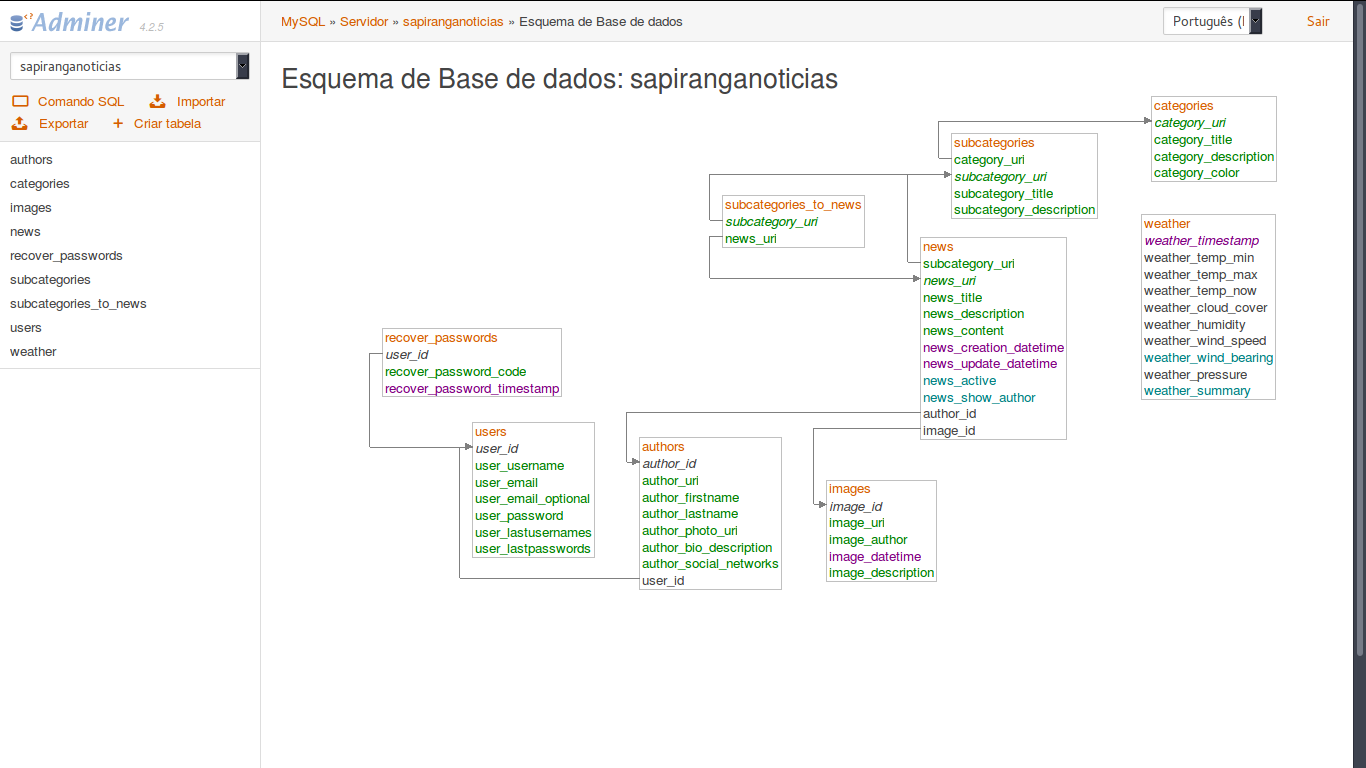
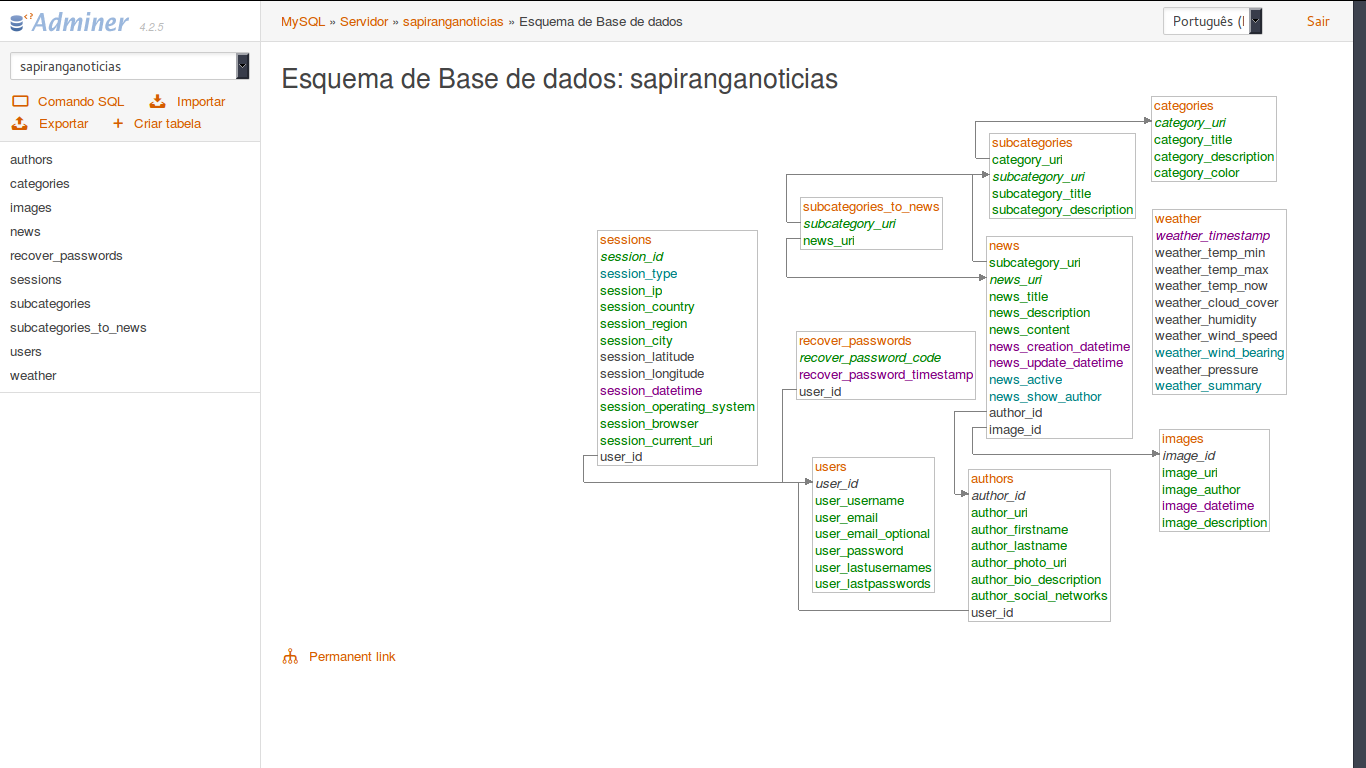
Adicionada a tabela de Monitoramento de Sessões

diff --git a/application/models/Installer_model.php b/application/models/Installer_model.php
@@ -67,6 +67,13 @@ class Installer_model extends CI_Model {
 	protected $table_weather = 'weather';
 
 	/**
+	 * @see Installer_model::table_sessions()
+	 * @var string $table_weather Nome da Tabela de Sessões
+	 */
+	protected $table_sessions = 'sessions';
+
+
+	/**
 	 * Installer_model constructor
 	 */
 	public function __construct()
@@ -92,6 +99,7 @@ class Installer_model extends CI_Model {
 		$this->table_news();
 		$this->table_subcategories_to_news();
 		$this->table_weather();
+		$this->table_sessions();
 	}
 
 	/**
@@ -150,7 +158,7 @@ class Installer_model extends CI_Model {
 	 *
 	 * @todo Código deve ser chamado pela uri de recuperação. Deve haver controle de segurança na quantidade de tentativas/códigos inexistentes
 	 *
-	 * @see Installer_model::$recover_passwords
+	 * @see  Installer_model::$recover_passwords
 	 * @return void
 	 */
 	protected function table_recover_passwords()
@@ -513,5 +521,77 @@ class Installer_model extends CI_Model {
 
 		$this->dbforge->create_table($table, TRUE, $this->attributes);
 	}
+
+	/**
+	 * Tabela de Sessões
+	 *
+	 * @see Installer_model::$table_sessions
+	 * @return void
+	 */
+	protected function table_sessions()
+	{
+		$table = $this->table_sessions;
+
+		$fields = array(
+			'session_id'               => array(
+				'type'       => 'VARCHAR',
+				'constraint' => 255,
+			),
+			'session_type'             => array(
+				'type' => "ENUM('user','guest')",
+			),
+			'session_ip'               => array(
+				'type'       => 'VARCHAR',
+				'constraint' => 255,
+			),
+			'session_country'          => array(
+				'type'       => 'char',
+				'constraint' => 3,
+			),
+			'session_region'           => array(
+				'type'       => 'char',
+				'constraint' => 2,
+			),
+			'session_city'             => array(
+				'type'       => 'VARCHAR',
+				'constraint' => 255,
+			),
+			'session_latitude'         => array(
+				'type' => 'DECIMAL(10, 8)',
+			),
+			'session_longitude'        => array(
+				'type' => 'DECIMAL(10, 8)',
+			),
+			'session_datetime'         => array(
+				'type'    => 'DATETIME',
+				'default' => '0000-00-00 00:00:00',
+			),
+			'session_operating_system' => array(
+				'type'       => 'VARCHAR',
+				'constraint' => 255,
+			),
+			'session_browser'          => array(
+				'type'       => 'VARCHAR',
+				'constraint' => 255,
+				'comment'    => 'User Agent',
+			),
+			'session_current_uri'      => array(
+				'type'       => 'VARCHAR',
+				'constraint' => 255,
+				'null'       => TRUE,
+			),
+			'user_id'                  => array(
+				'type'     => 'INT',
+				'unsigned' => TRUE,
+				'null'     => TRUE,
+			),
+		);
+		$this->dbforge->add_key('session_id', TRUE);
+		$this->dbforge->add_field($fields);
+		$this->dbforge->add_field("CONSTRAINT FOREIGN KEY (user_id) REFERENCES {$this->table_users}(user_id) ON DELETE CASCADE ON UPDATE CASCADE");
+
+		$this->dbforge->create_table($table, TRUE, $this->attributes);
+	}
+
 
 }
